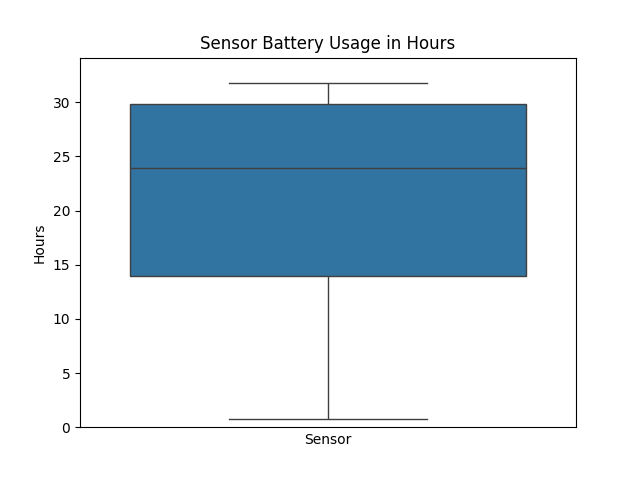
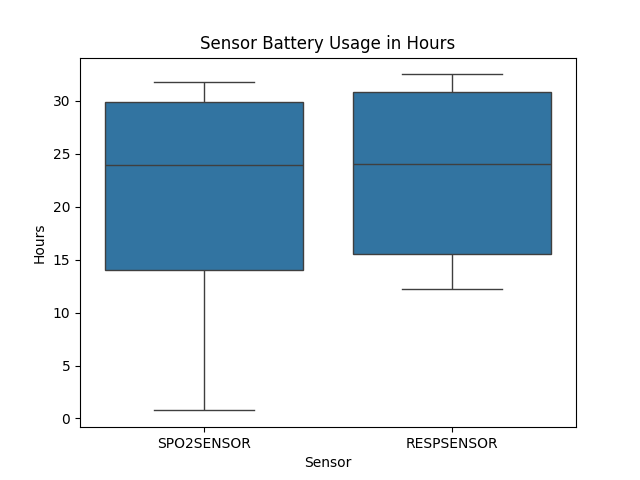
Fixed plotting errors

diff --git a/discharge_table.py b/discharge_table.py
@@ -58,12 +58,14 @@ if compute_spo2_cluster:
     plt.ylabel("Frequency")
     plt.title("Distribution of Hours Used for SPO2SENSOR Batteries")
     plt.savefig("spo2_histogram.png")  # Save histogram as PNG
+    plt.clf()
 
     # Boxplot for SPO2SENSOR
     plt.boxplot(spo2_cluster_lengths["hours"])
     plt.title("Distribution of Hours Used for SPO2SENSOR Batteries")
     plt.ylabel("Hours")
     plt.savefig("spo2_boxplot.png")
+    plt.clf()
 
 # Calculate resp cluster lengths if required
 if compute_resp_cluster:
@@ -90,12 +92,14 @@ if compute_resp_cluster:
     plt.ylabel("Frequency")
     plt.title("Distribution of Hours Used for RESPSENSOR Batteries")
     plt.savefig("resp_histogram.png")
+    plt.clf()
 
     # Boxplot for RESPSENSOR
     plt.boxplot(resp_cluster_lengths["hours"])
     plt.title("Distribution of Hours Used for RESPSENSOR Batteries")
     plt.ylabel("Hours")
     plt.savefig("resp_boxplot.png")
+    plt.clf()
 
 # Create combined plot if required
 if create_combined_plot:
@@ -125,3 +129,4 @@ if create_combined_plot:
     plt.xlabel("Sensor")
     plt.ylabel("Hours")
     plt.savefig("comparison_boxplot.png")
+    plt.clf()
